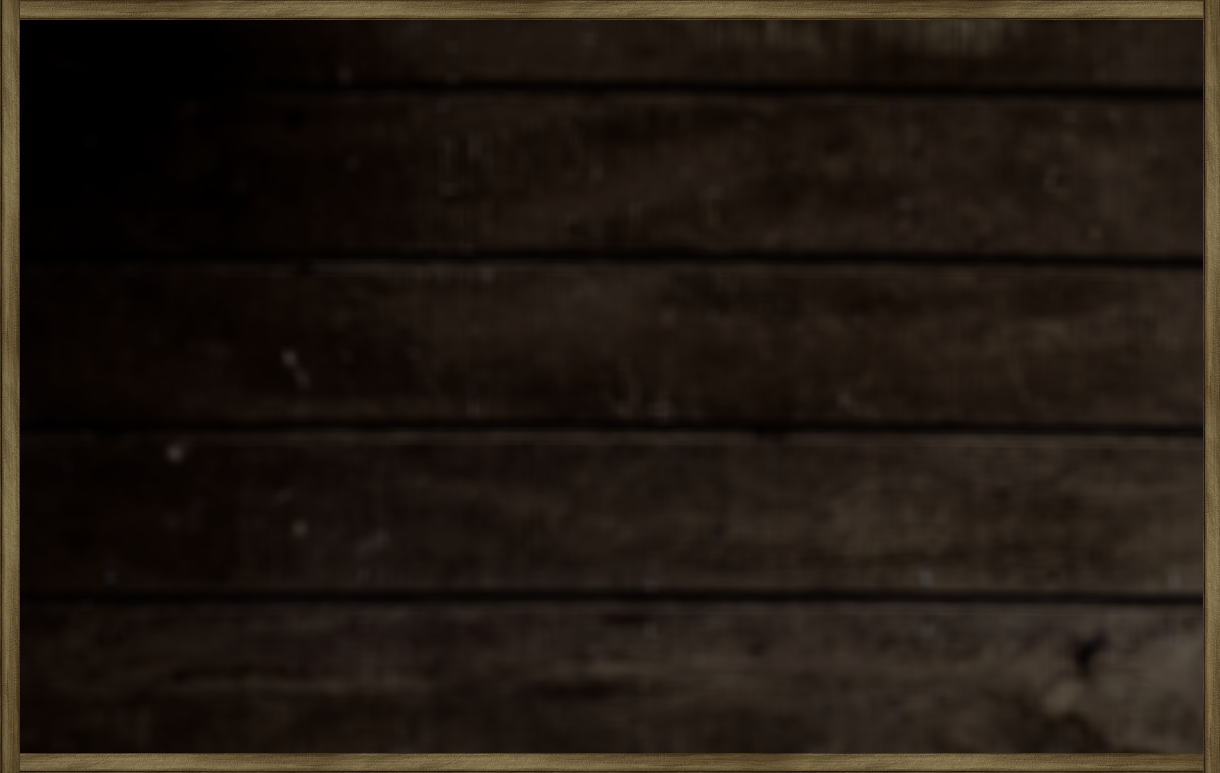
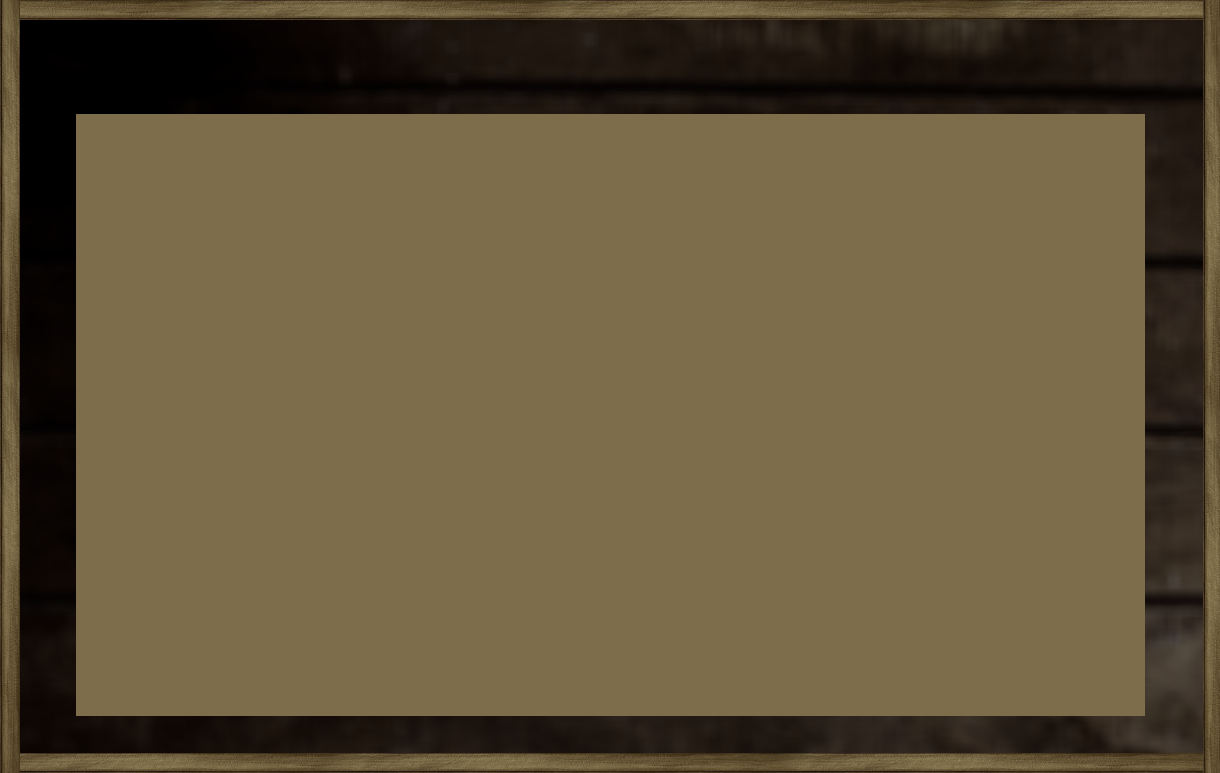
click listener + ui functions added + destroy buildings

diff --git a/src/hu/elte/madtycoon/ui/PopWindow.java b/src/hu/elte/madtycoon/ui/PopWindow.java
@@ -1,16 +1,21 @@
 package hu.elte.madtycoon.ui;
 
 import hu.elte.madtycoon.core.Resources;
+import hu.elte.madtycoon.core.World;
 import hu.elte.madtycoon.objects.Building;
+import hu.elte.madtycoon.objects.GameObject;
 
 import java.awt.*;
 import java.io.File;
 import java.io.IOException;
 import javax.swing.*;
+import javax.swing.border.EmptyBorder;
 
 
 public class PopWindow extends JFrame{
     private final JButton exit;
+    private JPanel panel;
+    private World world;
 
     public PopWindow(){
 
@@ -36,6 +41,68 @@ public class PopWindow extends JFrame{
         });
         this.setLocationRelativeTo(null);
         this.add(exit);
+        this.setVisible(true);
+    }
+
+    public PopWindow(Building sb, World world){
+
+        this.setUndecorated(true);
+        this.setLayout(new BorderLayout());
+        exit = new JButton();
+        exit.setMargin(new Insets(25, 1100, 0, 0));
+        exit.setOpaque(false);
+        exit.setContentAreaFilled(false);
+        exit.setBorderPainted(false);
+        exit.addActionListener(e -> this.dispose());
+        exit.setIcon(new ImageIcon(Resources.Instance.gameExitButton));
+
+        panel = new JPanel();
+        panel.setLayout(new BorderLayout());
+        panel.setOpaque(false);
+        panel.setBorder(new EmptyBorder(20,0,0,0));
+
+        JLabel objName = new JLabel(sb.getClass().getSimpleName());
+        objName.setForeground(Color.decode("#1c1710"));
+        objName.setFont(Resources.Instance.chBell);
+
+        JTextPane objText = new JTextPane();
+        objText.setPreferredSize(new Dimension(900,450));
+        objText.setOpaque(false);
+        objText.setCursor(new Cursor(Cursor.DEFAULT_CURSOR));
+        objText.setEditable(false);
+
+        String text = "\nHealth :      " + sb.getHealth();
+
+        objText.setText(text);
+        objText.setForeground(Color.decode("#1c1710"));
+        objText.setFont(Resources.Instance.chBell);
+
+        JButton delete = new JButton();
+        delete.setOpaque(false);
+        delete.setContentAreaFilled(false);
+        delete.setBorderPainted(false);
+        delete.setIcon(new ImageIcon(Resources.Instance.destroyButton));
+        delete.addActionListener(e -> {
+            world.destroy(sb);
+            this.dispose();
+        });
+        panel.add(delete,BorderLayout.PAGE_END);
+        panel.add(objText, BorderLayout.CENTER);
+        panel.add(objName, BorderLayout.NORTH);
+
+        this.setPreferredSize(new Dimension(1220,773));
+        this.setResizable(false);
+        this.pack();
+        this.setContentPane(new JPanel() {
+            @Override
+            public void paintComponent(Graphics g) {
+                super.paintComponent(g);
+                g.drawImage(Resources.Instance.shopBackGroundImage, 0, 0, this);
+            }
+        });
+        this.setLocationRelativeTo(null);
+        this.add(exit,BorderLayout.PAGE_START);
+        this.add(panel,BorderLayout.CENTER);
         this.setVisible(true);
     }
 }

diff --git a/src/hu/elte/madtycoon/core/Resources.java b/src/hu/elte/madtycoon/core/Resources.java
@@ -49,6 +49,8 @@ public class Resources
     public BufferedImage stickBuyButton;
     public BufferedImage firePitBuyButton;
 
+    public BufferedImage destroyButton;
+
     public Font chBell;
 
     public List<String> entityNames;
@@ -60,6 +62,7 @@ public class Resources
         loadGame();
         loadShop();
         loadFonts();
+        loadPopWindow();
     }
 
     private void loadMenu() throws IOException
@@ -113,5 +116,10 @@ public class Resources
         chBell = Font.createFont(Font.TRUETYPE_FONT, new File("res/font/christmas_bell.otf")).deriveFont(46f);
         GraphicsEnvironment ge = GraphicsEnvironment.getLocalGraphicsEnvironment();
         ge.registerFont(chBell);
+    }
+
+    private void loadPopWindow() throws IOException
+    {
+        destroyButton = ImageIO.read(new File("res/menu/destroy_button.png"));
     }
 }

diff --git a/src/hu/elte/madtycoon/core/Builder.java b/src/hu/elte/madtycoon/core/Builder.java
@@ -2,6 +2,7 @@ package hu.elte.madtycoon.core;
 
 import hu.elte.madtycoon.objects.Building;
 import hu.elte.madtycoon.objects.Buildings.*;
+import hu.elte.madtycoon.ui.PopWindow;
 import hu.elte.madtycoon.utils.BuildReference;
 import hu.elte.madtycoon.utils.BuilderState;
 import hu.elte.madtycoon.utils.Vector2F;
@@ -88,7 +89,7 @@ public class Builder
         Building sb = world.collisionCheck(selected, Vector2I.ONE);
         if(sb != null)
         {
-            //TODO open panel of the building.
+            PopWindow window = new PopWindow(sb,world);
         }
     }
 

diff --git a/src/hu/elte/madtycoon/objects/Building.java b/src/hu/elte/madtycoon/objects/Building.java
@@ -68,6 +68,7 @@ public abstract class Building extends GameObject
 
     public abstract float getDecorationValue();
 
+    public float getHealth(){return health;};
 
 
 
